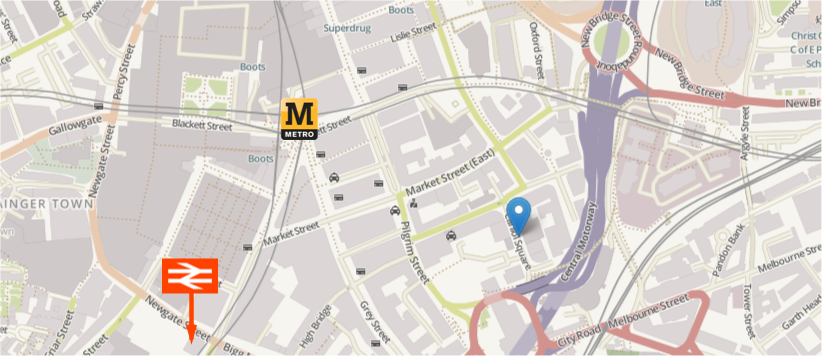
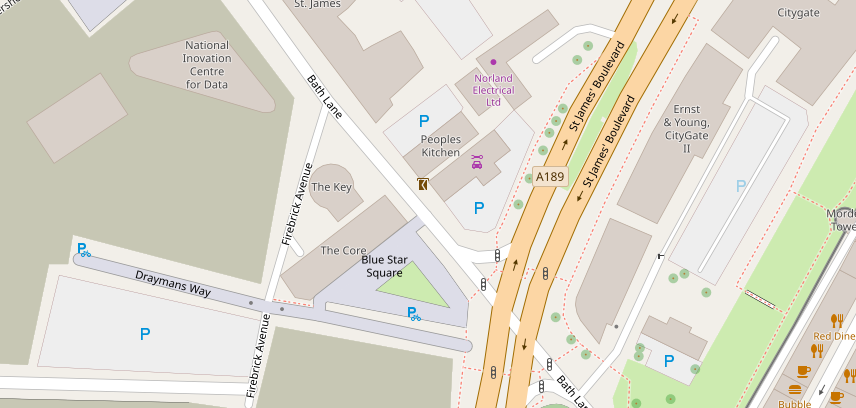
Updated the site to include the new sponsors and location.

diff --git a/_includes/map.html b/_includes/map.html
@@ -4,5 +4,5 @@
     scrolling="no"
     marginheight="0"
     marginwidth="0"
-    src="//www.openstreetmap.org/export/embed.html?bbox=-1.6190028190612793%2C54.96868467876528%2C-1.5956139564514162%2C54.97731812204523&amp;layer=hot&amp;marker=54.9727014313149%2C-1.6085422039031982">
+    src="//www.openstreetmap.org/export/embed.html?bbox=-1.6259604692459106%2C54.971532934924475%2C-1.6204351186752322%2C54.973638974981505&amp;layer=hot&amp;marker=54.972585968758494%2C-1.6231977939605713">
 </iframe>

diff --git a/index.html b/index.html
@@ -22,9 +22,12 @@
 
 <div class="next-event box">
 	<div class="container">
-		{% assign post = site.posts.first %}			
+		{% assign post = site.posts.first %}
 		<div class="box-header">
-			<h2>Next Event {{ post.date | date:"%-d %b %Y" }}</h2>
+			<h2>
+				Next Event<br>
+				{{ post.date | date:"%A %-d %b %Y" }}
+			</h2>
 			<h3>{{ post.title }}</h3>
 		</div>
 		{{ post.excerpt }}

diff --git a/assets/style.scss b/assets/style.scss
@@ -293,7 +293,7 @@ img {
       img {
         max-height: 40px;
         display: block;
-        margin: 0 auto;
+        margin: 0;
         margin-bottom: 10px;
       }
       strong {
